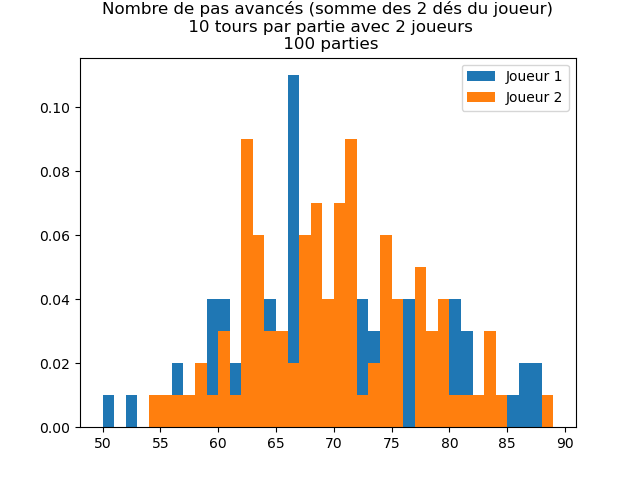
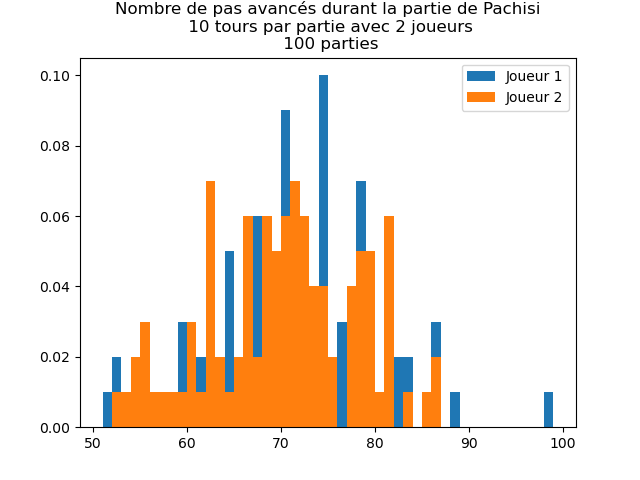
updated plots

diff --git a/pachisi.py b/pachisi.py
@@ -36,7 +36,7 @@ plt.hist(player2_rolls, bins=np.arange(min(player2_rolls), max(player2_rolls)+1)
 plt.legend()
 
 # Add the number of games played to the title
-plt.title(f"""Nombre de pas avancés (somme des 2 dés du joueur)
+plt.title(f"""Nombre de pas avancés durant la partie de Pachisi
  {num_turn_per_game} tours par partie avec 2 joueurs
  {num_games} parties""")
 
